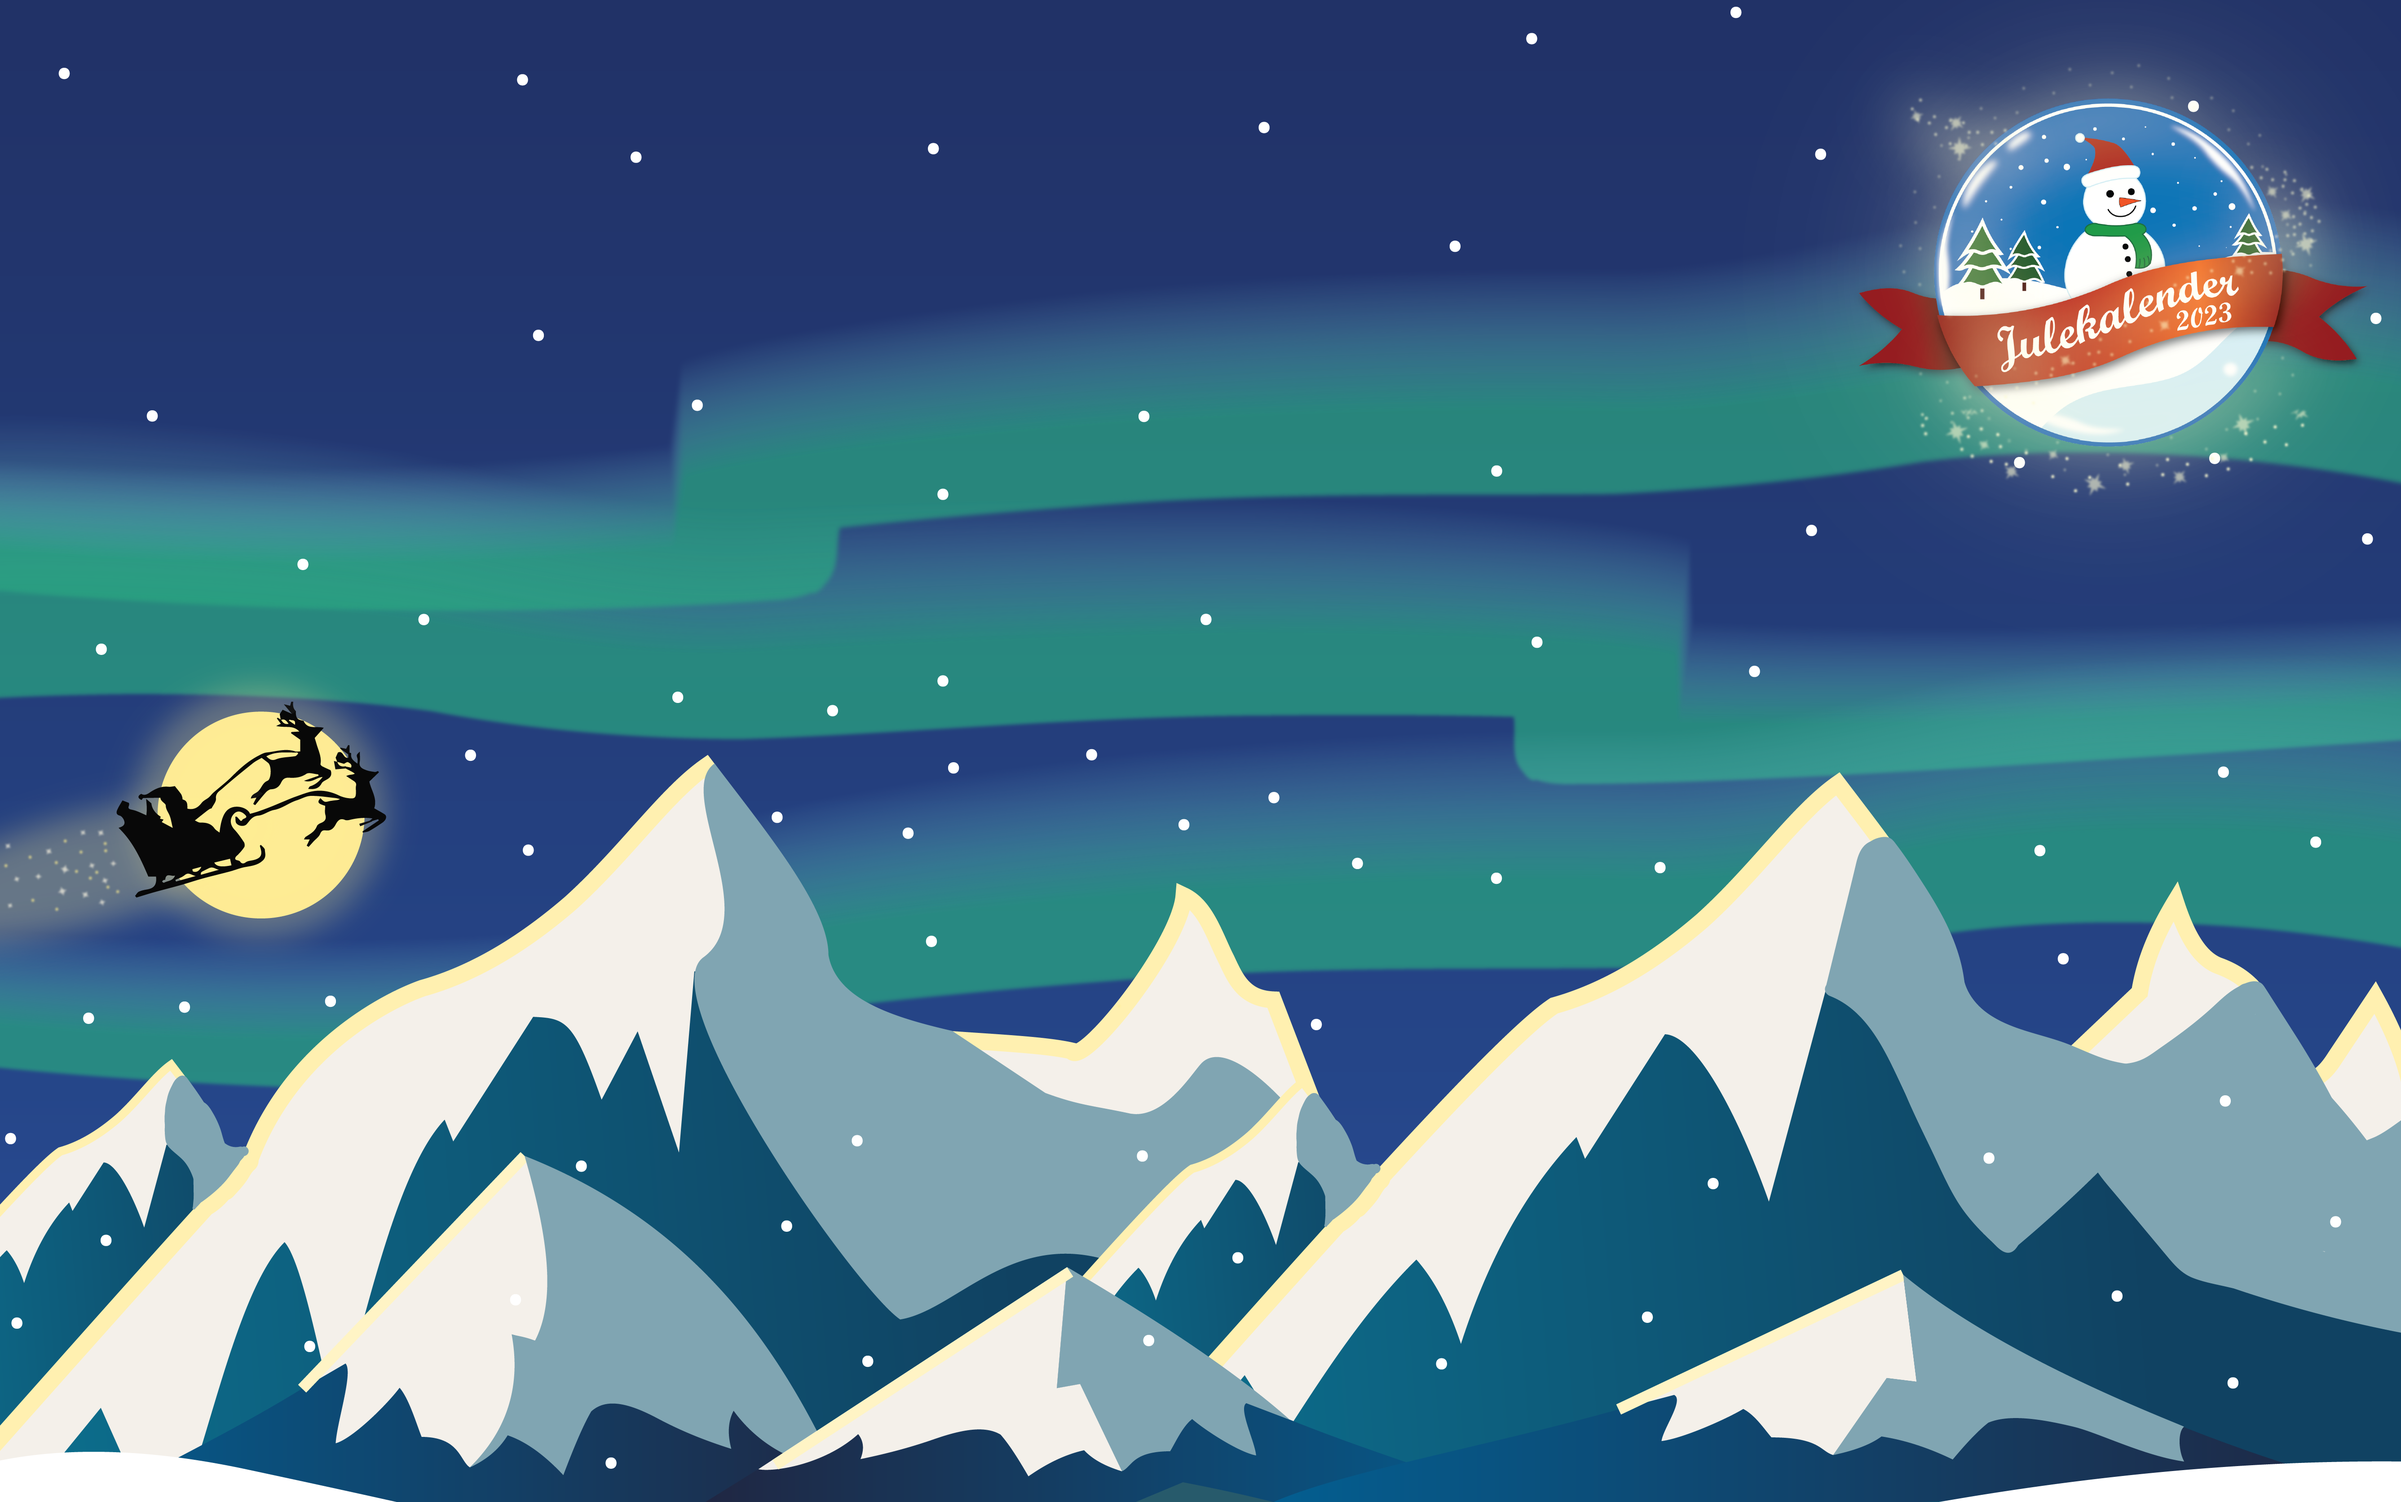
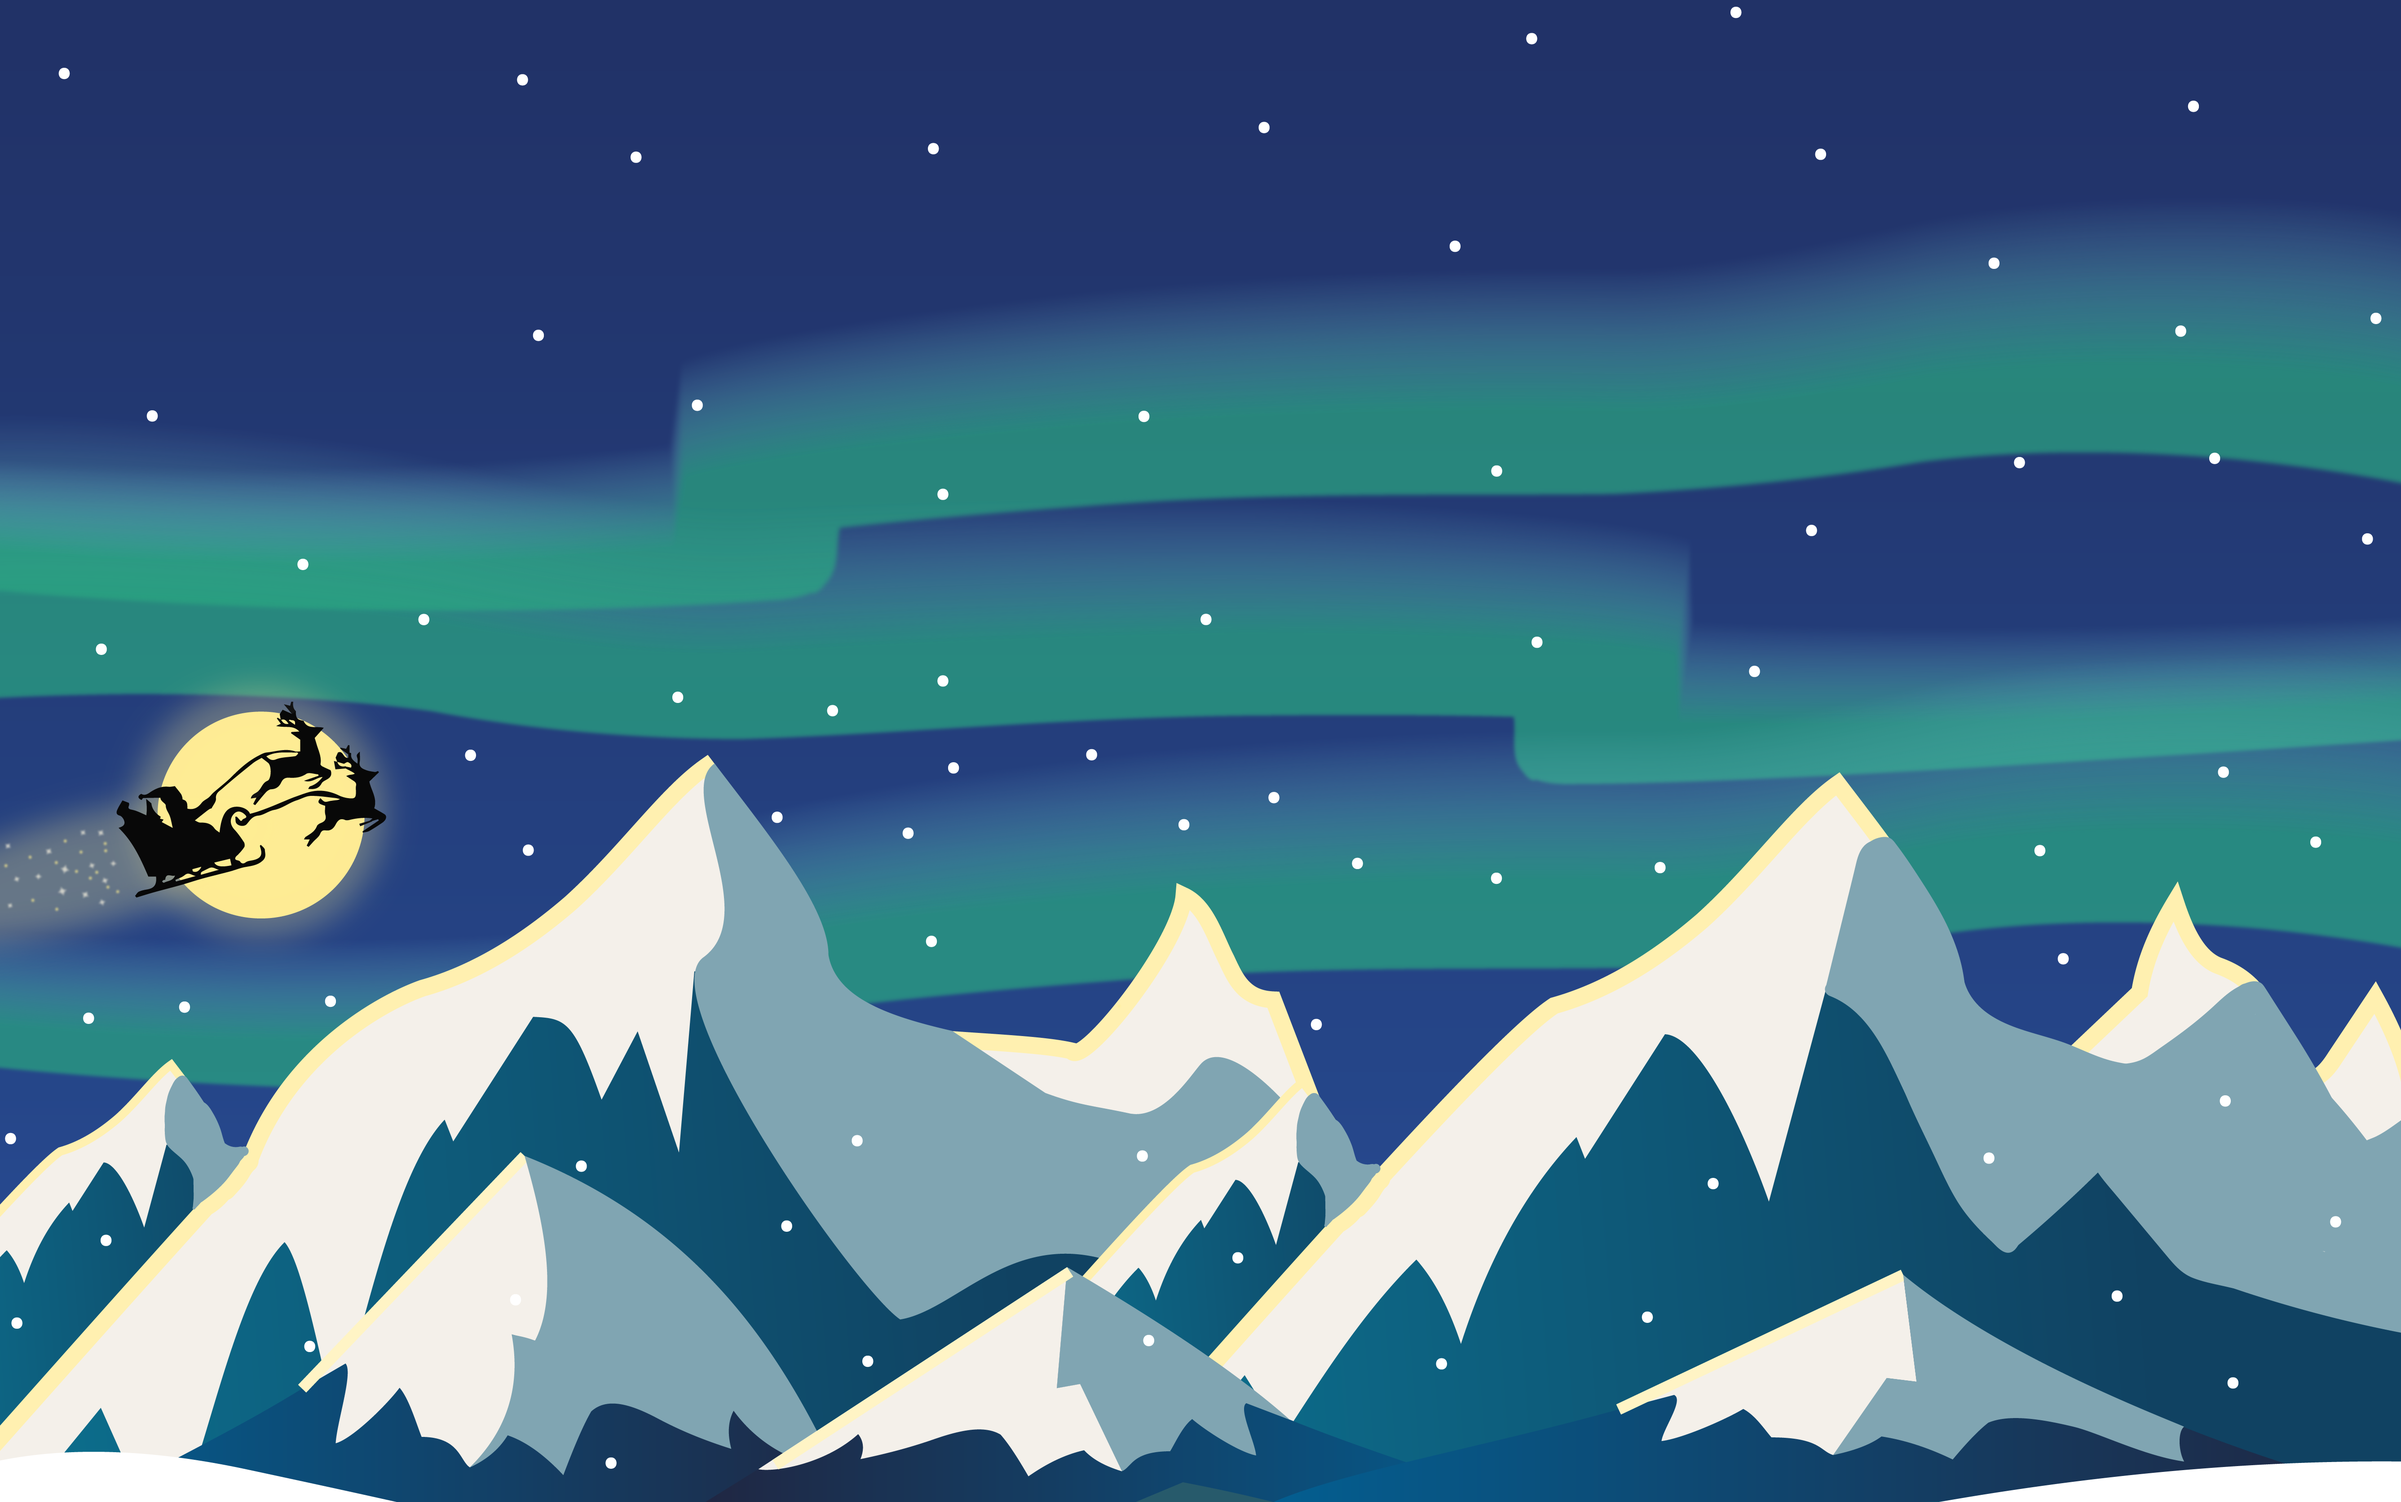
adding more responsive css and rewriting the layout to match a three column pattern where the left and right columns are display: none when the calendar is shown on small/vertical devices.

Changed region(s): [[0.781, 0.0311, 0.9996, 0.3419]]

diff --git a/public/css/style.css b/public/css/style.css
@@ -1,24 +1,26 @@
 :root {
     /* Common properties */
     --main-bg-color: #ff000079; /* Light gray background */
-    --header-footer-bg: #33333300; /* Dark background for header and footer */
+    --header-footer-bg: #004355f6; /* Dark background for header and footer */
     --header-footer-text: #fff; /* White text color for header and footer */
     --grid-border: #ddd; /* Border color for grid items */
     --unopenable-bg: #ccc; /* Gray background for unopenable items */
     --unopenable-text: #555; /* Darker text color for unopenable items */
     --hover-bg: #e0e0e0; /* Light gray background on hover */
     --red-theme: #BC1925;
+
+    --left-right-columnwidth: 20rem;
 }
-
-
 body {
     font-family: Arial, sans-serif;
+    display: flex;
     margin: 0;
     padding: 0;
     box-sizing: border-box;
     background-image: url("../img/desktop_bg.png");
     background-repeat: no-repeat;
     background-size: cover;
+    background-position: right;
     
 }
 .bow {
@@ -33,7 +35,6 @@ body {
     z-index: 1; /* Ensure the bow is above the lid and ribbon */
     background-color: green;
 }
-
 .bow::before {
     content: '';
     position: absolute;
@@ -49,9 +50,22 @@ body {
 
 .content-wrapper {
     display: flex;
+    justify-content: space-between;
+    flex-direction: row;
+    width: 100vw;
+    height: 100vh;
+}
+
+.margin {
+    width: 20vw;
+}
+
+#column-mid {
+    display: flex;
     flex-direction: column;
     justify-content: space-between;
     height: 100vh;
+    padding: 0;
 }
 
 /* Centered and styled footer */
@@ -62,26 +76,34 @@ body {
     padding: 5px;
 }
 footer {
-    position: fixed;
-    bottom: 0;
     background-color: var(--header-footer-bg);
     color: var(--header-footer-text);
     padding: 10px;
     text-align: center;
-    position: sticky;
-    bottom: 0;
     z-index: 5;
 }
 
 
-header {
-    background-color: var(--header-footer-bg);
+#heading {
+    display: flex;
+    justify-content:space-evenly;
     color: var(--header-footer-text);
-    padding: 10px;
+    height: 12rem;
     text-align: center;
-    position: sticky;
-    bottom: 0;
-    z-index: 5;
+    vertical-align: bottom;
+}
+
+#column-mid h1 {
+    padding-top: 2rem;
+    font-size: 5rem;
+    color: white;
+    text-align: center;
+}
+.logo {
+    height: 20rem;
+}
+.logo img{
+    height: 100%;
 }
 
 
@@ -89,17 +111,16 @@ header {
     display: grid;
     grid-template-columns: repeat(6, 1fr); /* 6 columns */
     grid-template-rows: repeat(4, 1fr); /* 4 rows */
-    gap: 20px;
-    padding: 20px;
+    gap: 1rem;
+    padding: 0;
     margin: 0 auto; /* Center the grid */
-    width: 50%;
-    max-width: 90%; /* Adjust the max-width as needed */
+    max-width: 90vw; /* Adjust the max-width as needed */
     margin-top: 10px; /* Adjust the top margin to reduce space under the footer */
+    width: 50rem;
 }
 
 .grid-item {
     border: 1px solid var(--grid-border);
-    padding: -110px;
     text-align: center;
     aspect-ratio: 1/1;
     display: flex;
@@ -122,6 +143,7 @@ header {
     z-index: 5; /* Adjust the z-index value as needed */
     font-size: 30px;
     margin-top: -10px; /* Adjust margin-top as needed to bring the text forward */
+    color: white;
 }
 
 
@@ -137,71 +159,6 @@ header {
     background-color: white;
 }
 
-.logo{
-    position: absolute;
-    top: 10px;
-    left: 5%;
-    z-index: 5;
-    border-radius: 50%;
-    padding: 5px;
-    max-width: 10%;
-    max-height: 10%;
-}
-.openable1 {
-    background-color: var(--palette-1-bg);
-    color: var(--palette-1-text);
-    font-size: 30px;
-}
-
-.openable-lid1 {
-    background-color: var(--palette-1-lid-bg);
-}
-
-.openable-rib1 {
-    background-color: var(--palette-1-ribbon-bg);
-}
-
-.openable2 {
-    background-color: var(--palette-2-bg);
-    color: var(--palette-2-text);
-    font-size: 30px;
-}
-
-.openable-lid2 {
-    background-color: var(--palette-2-lid-bg);
-}
-
-.openable-rib2 {
-    background-color: var(--palette-2-ribbon-bg);
-}
-
-.openable3 {
-    background-color: var(--palette-3-bg);
-    color: var(--palette-3-text);
-    font-size: 30px;
-}
-
-.openable-lid3 {
-    background-color: var(--palette-3-lid-bg);
-}
-
-.openable-rib {
-    background-color: var(--ribbon-bg);
-}
-
-
-.openable-lid {
-    background-color: var(--lid-bg);
-}
-.openable-rib3 {
-    background-color: var(--palette-3-ribbon-bg);
-}
-
-#pad-bar {
-    padding: 5px;
-    background-color: #33333300;
-}
-
 #progress-bar {
     z-index: 10;
     background-color: #4caf50;
@@ -213,16 +170,19 @@ header {
     text-align: center;
     padding: 5px;
 }
-.ribbon {
+
+/* This is the horizontal line on the packages in the grid. */
+/* .ribbon {
     position: absolute;
     width: 90%;
     height: 10px;
-    background-color: var(--unopenable-bg); /* Unopenable color for the ribbon */
+    background-color: var(--unopenable-bg);
     top: 60;
     rotate: 90deg;
     z-index: 2;
     background-color: white;
-}
+} */
+
 .sticky-header {
     position: sticky;
     top: 0;
@@ -247,11 +207,6 @@ header {
     color: var(--unopenable-text);
     cursor: not-allowed;
 }
-.unopenable-lid {
-    background-color: var(--unopenable-bg);
-    color: var(--unopenable-text);
-    cursor: not-allowed;
-}
 
 
 @media only screen and (max-width: 600px) {
@@ -260,10 +215,20 @@ header {
         grid-template-rows: repeat(8, 1fr); /* Adjust rows for smaller screens */
         padding: 10px; /* Adjust padding for smaller screens */
     }
+
+    #column-mid h1 {
+        font-size: 12vw;
+    }
 }
 
-@media only screen and (max-width: 800px) {
-    .logo {
+@media only screen and (max-width: 1200px) {
+    .content-wrapper {
+        justify-content: center ;
+    }
+    #column-left {
+        display: none;
+    }
+    #column-right {
         display: none;
     }
 }

diff --git a/public/js/progress-bar.js b/public/js/progress-bar.js
@@ -1,20 +1,20 @@
 document.addEventListener('DOMContentLoaded', function() {
-    var gridContainer = document.getElementById('grid-container');
-    var progressContainer = document.getElementById('progress-container');
-    var progressBar = document.getElementById('progress-bar');
-    var dateDisplay = document.getElementById('date-display');
-    var percentageDisplay = document.getElementById('percentage'); // New line
+    const LASTCALENDARDAY = 24;
+    let gridContainer = document.getElementById('grid-container');
+    let progressContainer = document.getElementById('progress-container');
+    let progressBar = document.getElementById('progress-bar');
+    let dateDisplay = document.getElementById('date-display');
+    let percentageDisplay = document.getElementById('percentage'); // New line
 
-    // Get the current date
-    var currentDate = new Date();
+        // Get the current date
+    let currentDate = new Date();
 
-    // Get the current day in December
-    var currentDayInDecember = currentDate.getDate();
-
+    // Get the current day in December and stop counting after the last day of the calendar
+    let currentDayInDecember = currentDate.getDate();
+    currentDayInDecember = currentDayInDecember <= LASTCALENDARDAY ? currentDayInDecember : LASTCALENDARDAY;
     // Calculate progress percentage
-    var progressPercentage = (currentDayInDecember / 24) * 100;
+    let progressPercentage = (currentDayInDecember / LASTCALENDARDAY) * 100;
     progressBar.style.width = progressPercentage + '%';
-
     // Display the date
     dateDisplay.textContent = currentDate.toDateString();
 

diff --git a/app.js b/app.js
@@ -2,10 +2,13 @@ const express = require("express")
 const app = express()
 const routes = require('./routes/defaultroutes');
 
+//Environment variables
+const PORT = 3000;
+
 app.set("view engine", "ejs");
 app.use(express.static(__dirname + '/public/'));
 app.use(routes);
 
-app.listen(3000, () => {
-    console.log('Server running on port 3000')
+app.listen(PORT, () => {
+    console.log(`Server running on port ${PORT}\nopen http://localhost:${PORT} to view the page`)
 })
